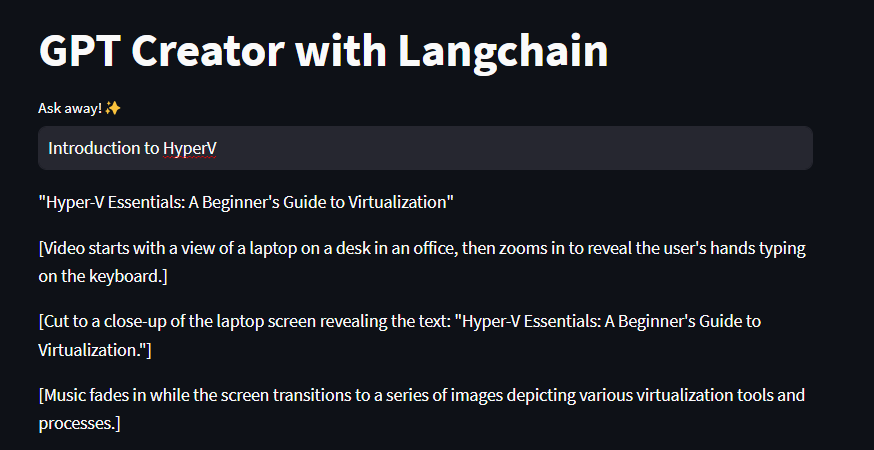
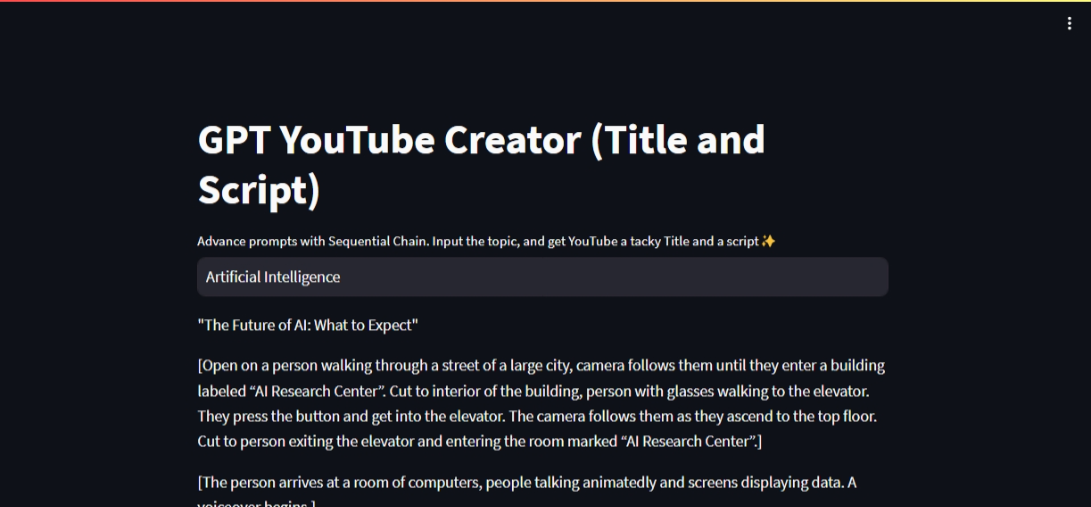
Readme updated and Code polished

diff --git a/app_pro_tem.py b/app_pro_tem.py
@@ -10,13 +10,13 @@ from langchain.chains import LLMChain
 os.environ["OPENAI_API_KEY"] = apikey
 
 # App framkework
-st.title('GPT Creator with Langchain')
-prompt = st.text_input('Ask away!✨')
+st.title('Book suggestion Assistant')
+prompt = st.text_input('Input your preferred genre!📖✨')
 
 # Prompt template
 title_template = PromptTemplate(
     input_variables= ['topic'],
-    template='Write a conversational play script with atleast 10 dialogues on {topic}'
+    template='Suggest me three bestselling books on genre: {topic}'
 )
 
 # LLMs

diff --git a/app_seq_chain.py b/app_seq_chain.py
@@ -10,8 +10,8 @@ from langchain.chains import LLMChain, SequentialChain
 os.environ["OPENAI_API_KEY"] = apikey
 
 # App framkework
-st.title('GPT Creator with Langchain')
-prompt = st.text_input('Ask away!✨')
+st.title('GPT YouTube Creator (Title and Script)')
+prompt = st.text_input('Advance prompts with Sequential Chain. Input the topic, and get YouTube a tacky Title and a script✨')
 
 # Prompt templates
 title_template = PromptTemplate(

diff --git a/app_sim_seq_chain.py b/app_sim_seq_chain.py
@@ -10,8 +10,8 @@ from langchain.chains import LLMChain, SimpleSequentialChain
 os.environ["OPENAI_API_KEY"] = apikey
 
 # App framkework
-st.title('GPT Creator with Langchain')
-prompt = st.text_input('Ask away!✨')
+st.title('GPT YouTube Creator (Script only)')
+prompt = st.text_input('Advance prompts with Simple Sequential Chain. Input the topic, and get YouTube script✨')
 
 # Prompt templates
 title_template = PromptTemplate(

diff --git a/app.py b/app.py
@@ -7,7 +7,7 @@ from langchain.llms import OpenAI
 os.environ["OPENAI_API_KEY"] = apikey
 
 # App framkework
-st.title('GPT Creator with Langchain')
+st.title('Yet another GPT application')
 prompt = st.text_input('Ask away!✨')
 
 # LLMs

diff --git a/README.md b/README.md
@@ -1,61 +1,75 @@
+
 # Building our own AutoGPT with the help of LangChain and GPT-3
 
-Notes:
+## Overview
 
-STREAMLIT - USED TO BUILD THE APP
-LANGCHAIN- USED TO BUILD LLM WORKFLOW
-OPENAI - NEEDED TO USE OPENAI GPT
-WIKIPEDIA- USED TO CONNECT GPT TO WIKIPEDIA
-CHROMADB - VECTOR STORAGE
-TIKTOKEN - BACKEND TOKENIZER FOR OPENAI
+This repository contains code to build a text generation app using the LangChain library and OpenAI's GPT-3 model. The app is built using Streamlit, a Python library for creating web applications. The LangChain library is used to manage the LLM (Language Model Management) workflow, and OpenAI is used to access the GPT-3 model.
 
-## Run the app
+For a detailed explanation of the code and get the basics of LangChain, read [blog](hashnode) 🚀
 
-Download the repo:
-[Link](https://github.com/)
+## Run the App
 
-1. Install dependencies:
+To run the app locally, follow these steps:
+
+1. Clone the repository:
+
+2. Install the required dependencies:
 
     ```bash
     pip install -r requirements.txt
     ```
 
-2. Insert your GPT-3 apikey
-    In the project directory, create a file `apikey.py` and paste in the following content
+3. Insert your GPT-3 API key:
 
-    ```python
-    apikey = 'YOUR_OPENAI_API_KEY'
-    ```
+    - In the project directory, create a file named `apikey.py`.
+    - Inside `apikey.py`, paste the following content:
 
-    Replace `YOUR_OPENAI_API_KEY` with your OpenAI key.
+        ```python
+        apikey = 'YOUR_OPENAI_API_KEY'
+        ```
 
-    Save the file.
+        Replace `YOUR_OPENAI_API_KEY` with your actual OpenAI API key.
+    - Save the `apikey.py` file.
 
-    > [!IMPORTANT]
-    > Make sure you add the `apikey.py` this file to `.gitignore`.
+> [!IMPORTANT] 
+> Make sure to add `apikey.py` to your `.gitignore` file to avoid exposing your API key.
 
-3. To run the code, type in terminal
+4. Run the Streamlit app:
 
     ```bash
     streamlit run app.py
     ```
 
-## Types of use case
+    Your application should be live on http://localhost:8501/
 
-### 1. With user input prompts
+## Different Use Cases
 
-Refer [app.py](app.py)
+This repository explores four features of Langchain to get a better understanding of the basics of Langchain:
 
-To run [app.py](app.py)
-    ```bash
-    streamlit run app.py
-    ```
+1. [User Input Prompts](https://docs.langchain.com/docs/components/prompts/prompt-value)
+2. [Prompt Templates](https://docs.langchain.com/docs/components/prompts/prompt-template)
+3. [Simple Sequential Chains](https://python.langchain.com/docs/modules/chains/foundational/sequential_chains)
+4. [Sequential Chains](https://python.langchain.com/docs/modules/chains/foundational/sequential_chains)
 
-![Input prompts like ChatGPT](image.png)
+### 1. [User Input Prompts](app.py)
 
-### 2. Prompt templates
+> Refer to [app.py](app.py) for the implementation of user input prompts.
 
-dynamic prompting
+This codebase implements the basic feature of LLM with the help of LangChain. A user input prompt is a piece of text that is used to guide an LLM to generate text. The prompt can be as simple as a single sentence or as complex as a paragraph.
+
+Run the user input prompt app:
+
+```bash
+streamlit run app.py
+```
+
+![Input prompts like ChatGPT](prompt.png)
+
+### 2. [Prompt Templates](app_pro_tem.py)
+
+> Refer to [app_pro_tem.py](app_pro_tem.py) for the implementation of Prompt Templates
+
+This codebase implements the basic feature of LLM with the help of LangChain. Prompt Template is a piece of text that can be used to generate different prompts by filling in the placeholders with different values.
 
 For example:
 
@@ -63,34 +77,52 @@ For example:
 Write a conversational play on {topic}
 ```
 
-The `Write a converstational play on` is part of the template, and `{topic}` is variable with user input from the user interface.
+The user can input the just the topic in the text box on web app.
 
-> You can change the prompt template to your own custom prompt on line number 19 of `app_pro_tem.py`
+![Book suggestion template](prompt_template_ex.png)
 
-To run [app_pro_tem.py](app_pro_tem.py)
-    ```bash
-    streamlit run app_pro_tem.py
-    ```
+To customize the prompt template, edit line number 19 of `app_pro_tem.py`.
 
-### 3. Simple Sequential Chains
+Run the prompt template app:
 
-Refer [app_sim_seq_chain.py](app_sim_seq_chain.py)
+```bash
+streamlit run app_pro_tem.py
+```
 
-Simple Sequential prompting, that is, you can chain up multiple prompts that works together to give you multuiple output.
+### 3. [Simple Sequential Chains](app_sim_seq_chain.py)
 
-prompt 1: `'Write a unique title for conversational play on {topic}'`
+> Refer to [app_sim_seq_chain.py](app_sim_seq_chain.py) for simple sequential prompting.
 
-prompt 2: `'Write a conversational play script with atleast 10 dialogues on TITLE: {title}'`
+A simple sequential chain is a sequence of prompts that are executed one after the other. Each prompt in the chain is used to generate text, and the output of one prompt is used as the input for the next prompt
 
-These prompts run sequentionally to provide multiple outputs.
+Run the simple sequential chain app:
+
+```bash
+streamlit run app_sim_seq_chain.py
+```
 
 ![Sequentially running chains, output of chain 1 passed as input for chain 2](sim_seq_chns.png)
 
 > [!NOTE]
-> **Simple Sequential chain** only dispalys the output of the last chain on the web app, whereas to get the output of all our desired chains on our web app we can use **Sequential chain**
+> **Simple Sequential chain** only dispalys the output of the last chain on the web app, whereas to get the output of all our desired chains on our web app we use **Sequential chain**
 
-### 4. Sequential Chains
 
-Here you can see the title as well as the script
+### 4. [Sequential Chains](app_sim_seq_chain.py)
+
+> Refer to [app_sim_seq_chain.py](app_sim_seq_chain.py) for implementation of sequential prompting.
+
+Sequential chains allow you to take the output of one prompt and use it as the input for another prompt. This can be used to generate text that is more complex than what can be generated by a single prompt.
+
+```bash
+streamlit run app_seq_chain.py
+```
+
+Display both title and script in sequential chains.
+
+Example:
 
 ![Example of sequential chains, displaying output of both the chains](seq_chain_op.png)
+
+---
+
+For a detailed explanation of the code and get the basics of LangChain, read [blog](hashnode)
